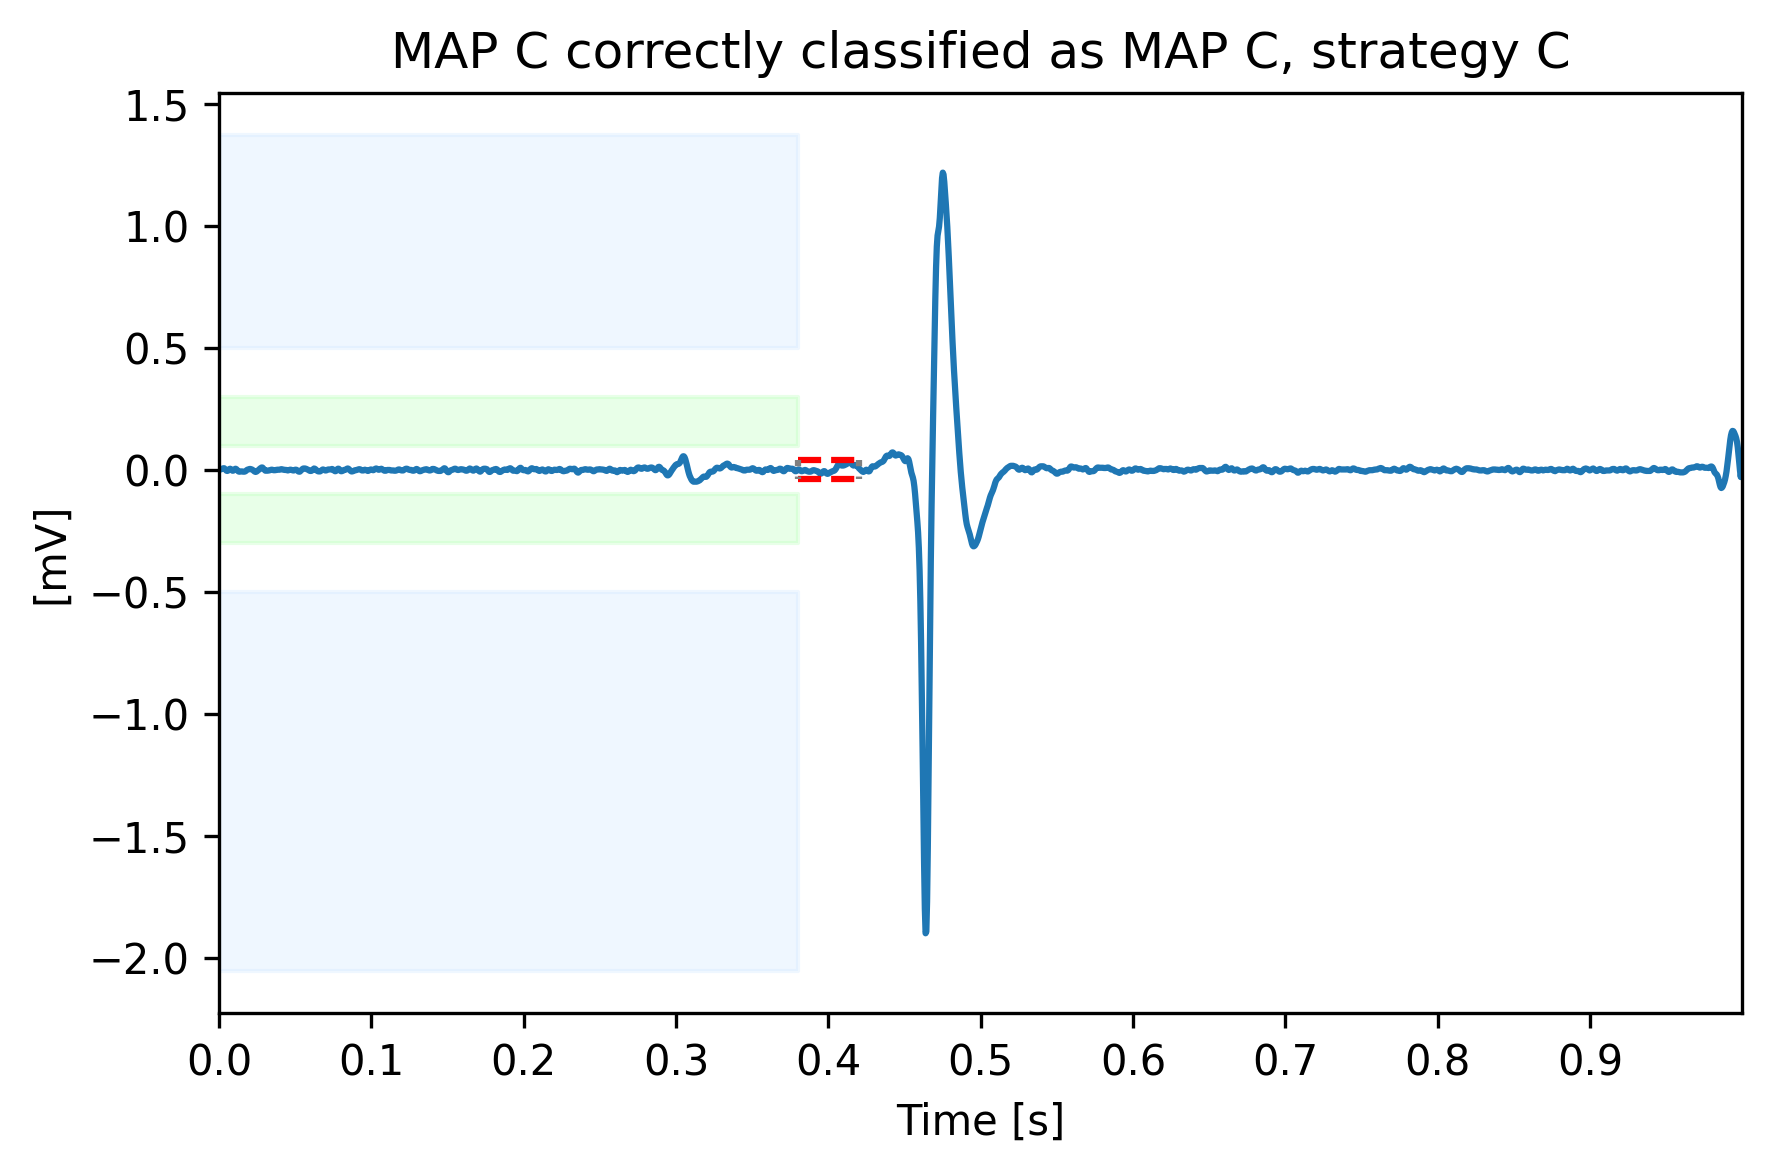
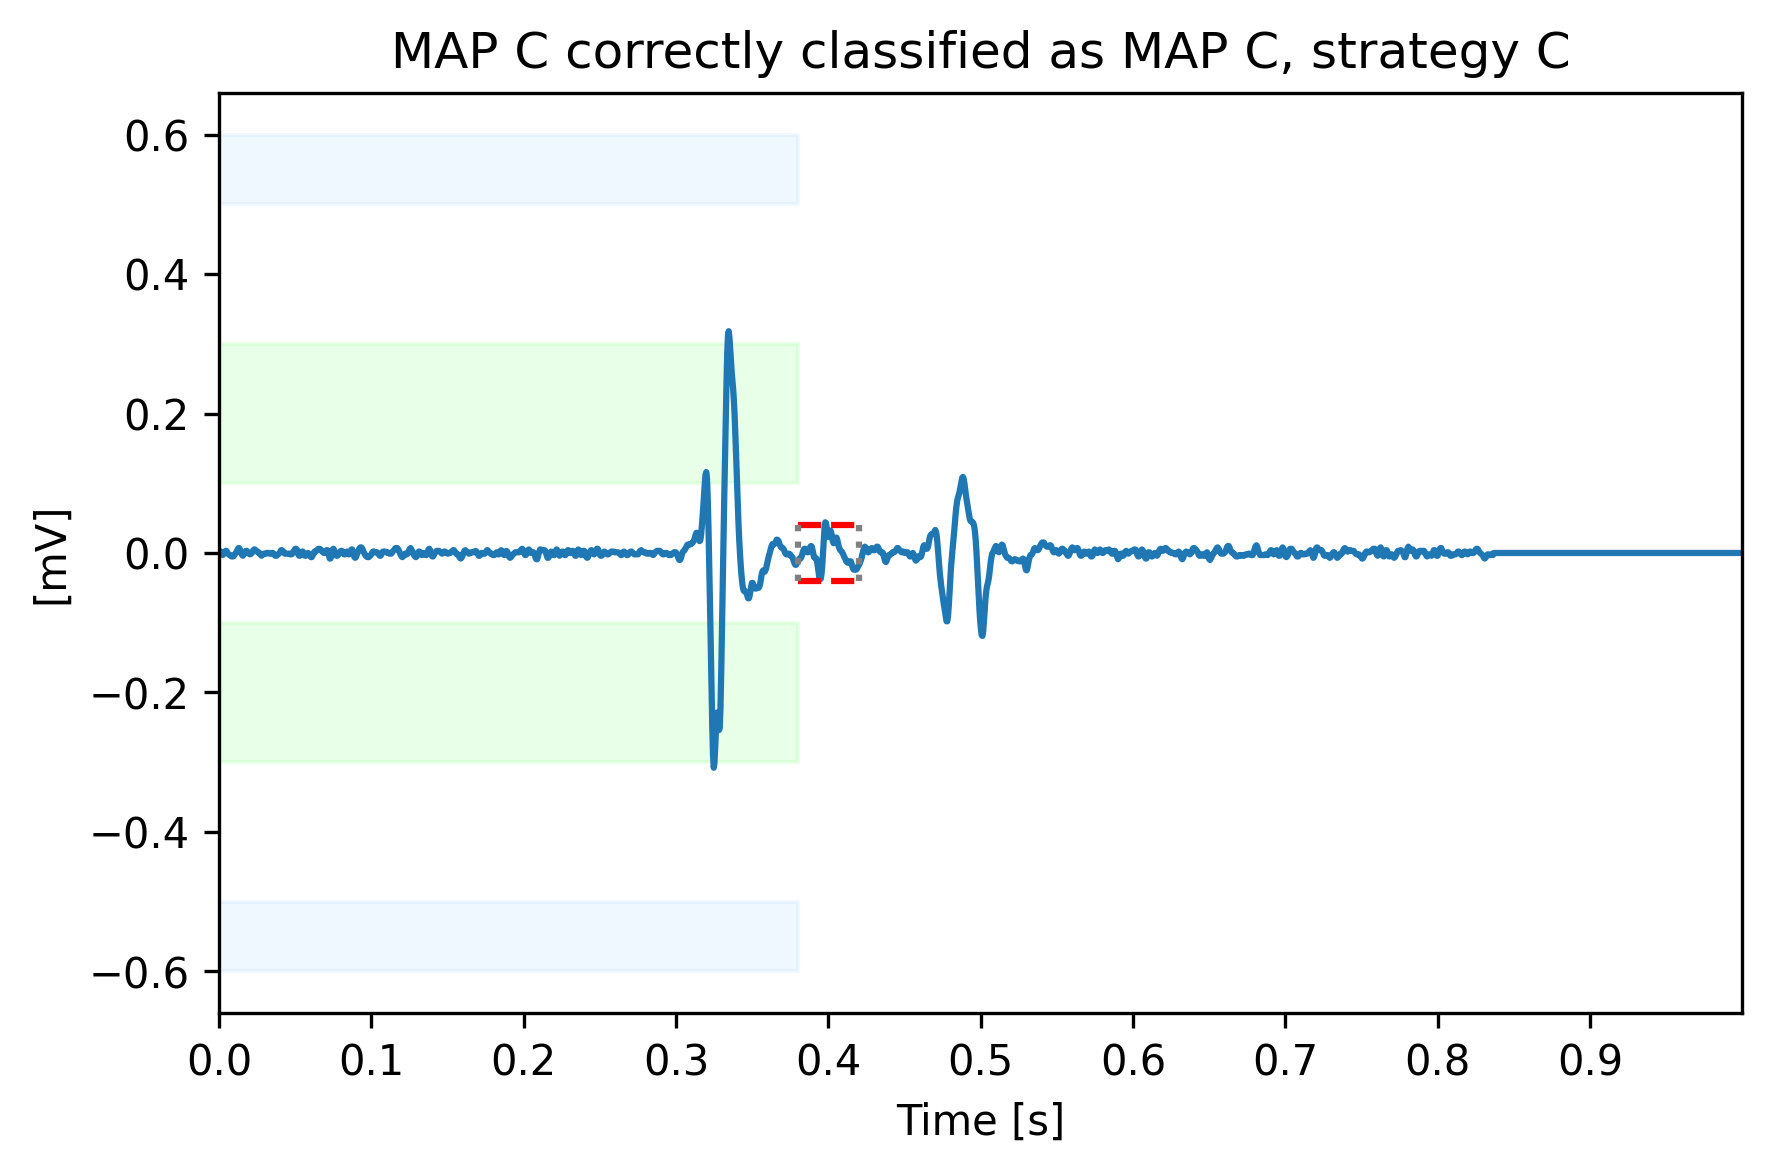
train test split figures done

diff --git a/main_classification.py b/main_classification.py
@@ -33,7 +33,8 @@ figure_path="D:/Desktop/ANDREA/Universita/Magistrale/Anno Accademico 2023-2024/T
 
 #%% Loading data
 dataset_path = "D:/Desktop/ANDREA/Universita/Magistrale/Anno Accademico 2023-2024/TESI/Tesi_magistrale/Data/Processed/data_aligned" 
-dataset_name = "dataset_1"  # E.g., dataset_1, 2, 3
+db_number=3
+dataset_name = "dataset_"+str(db_number)  # E.g., dataset_1, 2, 3
 whole_dataset,signals,y_true,labels_unique,Fs,plot_last_name,fig_final_folder,subtitle_plots = load_dataset(dataset_path, dataset_name)
 
 #%% Checking data
@@ -65,6 +66,24 @@ show_class_proportions(y_test,labels_unique)
 ################# BUILDING AN HEURISTIC CLASSIFIER PHASE #####################
 ##############################################################################
 other_fig_path=figure_path+"/Heuristic_classification_phase/"+fig_final_folder+"/other_figs"
+
+# %% Example signals positions
+import pandas as pd
+train_test_examples=pd.DataFrame({
+    "db 1 c" : [96,106,164],
+    "db 1 m": [0,13, 198],
+    "db 2 c" : [3,40,13],
+    "db 2 m": [1,130, 42],
+    "db 3 c" : [0,53,169],
+    "db 3 m": [1, 56, 145]
+    })
+
+LOPOCV_examples=pd.DataFrame({
+    "db 1 c" : [(0,0),(0,0),(0,0)],
+    "db 1 m": [(0,0),(0,0), (0,0)],
+    "db 2 c" : [(0,0),(0,0),(0,0)],
+    "db 3 m": [(0,0),(0,0), (0,0)]
+    })
 
 # %% Tuning of His Threshold value for strategy B
 # F1 score is used to tune the best percentile to be used as threshold
@@ -117,30 +136,32 @@ he_report=evaluate_confusion_matrix(pred_heuristic,y_test,labels_unique,cm_supti
 plot_dataframe_as_plain_image(he_report, figsize=(4, 4), scale=(1,1.3),title_plot=cm_title, use_rowLabels=True,path=cm_saving_path,saving_name="report_test_C")
 
 #%% Showing correct results
-# show_single_example(x_test, Fs,2, 'MAP A correctly classified as MAP A, strategy C') 
-# draw_his_boundaries(0.38,0.42,th_his,disp_atr_vent_boxes=True)
-# save_plot(plt.gcf(),other_fig_path,"ex_correct_class_1_C")
+col=f"db {db_number} c"
+show_single_example(x_test, Fs,train_test_examples[col][0], 'MAP A correctly classified as MAP A, strategy C') 
+draw_his_boundaries(0.38,0.42,th_his,disp_atr_vent_boxes=True)
+save_plot(plt.gcf(),other_fig_path,"ex_correct_class_1_C")
 
-# show_single_example(x_test, Fs,38, 'MAP B correctly classified as MAP B, strategy C') 
-# draw_his_boundaries(0.38,0.42,th_his,disp_atr_vent_boxes=True)
-# save_plot(plt.gcf(),other_fig_path,"ex_correct_class_2_C")
+show_single_example(x_test, Fs,train_test_examples[col][1], 'MAP B correctly classified as MAP B, strategy C') 
+draw_his_boundaries(0.38,0.42,th_his,disp_atr_vent_boxes=True)
+save_plot(plt.gcf(),other_fig_path,"ex_correct_class_2_C")
 
-# show_single_example(x_test, Fs, 3, 'MAP C correctly classified as MAP C, strategy C') 
-# draw_his_boundaries(0.38,0.42,th_his,disp_atr_vent_boxes=True)
-# save_plot(plt.gcf(),other_fig_path,"ex_correct_class_3_C")
+show_single_example(x_test, Fs, train_test_examples[col][2], 'MAP C correctly classified as MAP C, strategy C') 
+draw_his_boundaries(0.38,0.42,th_his,disp_atr_vent_boxes=True)
+save_plot(plt.gcf(),other_fig_path,"ex_correct_class_3_C")
 
-# # %% Showing some unclear results
-# show_single_example(x_test, Fs, 0, 'MAP A classified as MAP B, strategy C') 
-# draw_his_boundaries(0.38,0.42,th_his,disp_atr_vent_boxes=True)
-# save_plot(plt.gcf(),other_fig_path,"ex_misclass_1_C")
+# %% Showing some unclear results
+col=f"db {db_number} m"
+show_single_example(x_test, Fs, train_test_examples[col][0], 'MAP A classified as MAP B, strategy C') 
+draw_his_boundaries(0.38,0.42,th_his,disp_atr_vent_boxes=True)
+save_plot(plt.gcf(),other_fig_path,"ex_misclass_1_C")
 
-# show_single_example(x_test, Fs,13, 'MAP C classified as MAP B, strategy C') 
-# draw_his_boundaries(0.38,0.42,th_his,disp_atr_vent_boxes=True)
-# save_plot(plt.gcf(),other_fig_path,"ex_misclass_2_C")
+show_single_example(x_test, Fs,train_test_examples[col][1], 'MAP C classified as MAP B, strategy C') 
+draw_his_boundaries(0.38,0.42,th_his,disp_atr_vent_boxes=True)
+save_plot(plt.gcf(),other_fig_path,"ex_misclass_2_C")
 
-# show_single_example(x_test, Fs,222 , 'MAP C classified as MAP A, strategy C') 
-# draw_his_boundaries(0.38,0.42,th_his,disp_atr_vent_boxes=True)
-# save_plot(plt.gcf(),other_fig_path,"ex_misclass_3_C")
+show_single_example(x_test, Fs,train_test_examples[col][2] , 'MAP C classified as MAP A, strategy C') 
+draw_his_boundaries(0.38,0.42,th_his,disp_atr_vent_boxes=True)
+save_plot(plt.gcf(),other_fig_path,"ex_misclass_3_C")
 
 
 
@@ -168,28 +189,28 @@ if dataset_name!="dataset_3":
     plot_dataframe_as_plain_image(miss_class_summary, figsize=(8,5),scale=(1.7,1.7),title_plot=cm_title,path=other_fig_path,saving_name="Misclass_LOPOCV_C")
     
     # #%% Showing correct results
-    # show_single_example(signals, Fs,19, 'MAP A correctly classified as MAP A, LOPOCV C',use_iloc=False) 
-    # draw_his_boundaries(0.38,0.42,signal_peaks_and_class_train_LOPOCV[19][6],disp_atr_vent_boxes=True)
-    # save_plot(plt.gcf(),other_fig_path,"ex_LOPOCV_correct_class_1_C")
+    show_single_example(signals, Fs,19, 'MAP A correctly classified as MAP A, LOPOCV C',use_iloc=False) 
+    draw_his_boundaries(0.38,0.42,signal_peaks_and_class_train_LOPOCV[19][6],disp_atr_vent_boxes=True)
+    save_plot(plt.gcf(),other_fig_path,"ex_LOPOCV_correct_class_1_C")
     
-    # show_single_example(signals, Fs,809, 'MAP B correctly classified as MAP B, LOPOCV C',use_iloc=False) 
-    # draw_his_boundaries(0.38,0.42,signal_peaks_and_class_train_LOPOCV[193][6],disp_atr_vent_boxes=True)
-    # save_plot(plt.gcf(),other_fig_path,"ex_LOPOCV_correct_class_2_C")
+    show_single_example(signals, Fs,809, 'MAP B correctly classified as MAP B, LOPOCV C',use_iloc=False) 
+    draw_his_boundaries(0.38,0.42,signal_peaks_and_class_train_LOPOCV[193][6],disp_atr_vent_boxes=True)
+    save_plot(plt.gcf(),other_fig_path,"ex_LOPOCV_correct_class_2_C")
     
-    # show_single_example(signals, Fs, 313, 'MAP C correctly classified as MAP C, LOPOCV C',use_iloc=False) 
-    # draw_his_boundaries(0.38,0.42,signal_peaks_and_class_train_LOPOCV[936][6],disp_atr_vent_boxes=True)
-    # save_plot(plt.gcf(),other_fig_path,"ex_LOPOCV_correct_class_3_C")
+    show_single_example(signals, Fs, 313, 'MAP C correctly classified as MAP C, LOPOCV C',use_iloc=False) 
+    draw_his_boundaries(0.38,0.42,signal_peaks_and_class_train_LOPOCV[936][6],disp_atr_vent_boxes=True)
+    save_plot(plt.gcf(),other_fig_path,"ex_LOPOCV_correct_class_3_C")
     
-    # # %% Showing some unclear results
-    # show_single_example(signals, Fs,107, 'MAP A classified as MAP B, LOPOCV C',use_iloc=False) 
-    # draw_his_boundaries(0.38,0.42,signal_peaks_and_class_train_LOPOCV[123][6],disp_atr_vent_boxes=True)
-    # save_plot(plt.gcf(),other_fig_path,"ex_LOPOCV_misclass_1_C")
+    # %% Showing some unclear results
+    show_single_example(signals, Fs,107, 'MAP A classified as MAP B, LOPOCV C',use_iloc=False) 
+    draw_his_boundaries(0.38,0.42,signal_peaks_and_class_train_LOPOCV[123][6],disp_atr_vent_boxes=True)
+    save_plot(plt.gcf(),other_fig_path,"ex_LOPOCV_misclass_1_C")
     
-    # show_single_example(signals, Fs,937, 'MAP C classified as MAP B, LOPOCV C',use_iloc=False) 
-    # draw_his_boundaries(0.38,0.42,signal_peaks_and_class_train_LOPOCV[314][6],disp_atr_vent_boxes=True)
-    # save_plot(plt.gcf(),other_fig_path,"ex_LOPOCV_misclass_2_C")
+    show_single_example(signals, Fs,937, 'MAP C classified as MAP B, LOPOCV C',use_iloc=False) 
+    draw_his_boundaries(0.38,0.42,signal_peaks_and_class_train_LOPOCV[314][6],disp_atr_vent_boxes=True)
+    save_plot(plt.gcf(),other_fig_path,"ex_LOPOCV_misclass_2_C")
     
-    # show_single_example(signals, Fs, 928, 'MAP C classified as MAP A, LOPOCV C',use_iloc=False) 
-    # draw_his_boundaries(0.38,0.42,signal_peaks_and_class_train_LOPOCV[305][6],disp_atr_vent_boxes=True)
-    # save_plot(plt.gcf(),other_fig_path,"ex_LOPOCV_misclass_3_C")
+    show_single_example(signals, Fs, 928, 'MAP C classified as MAP A, LOPOCV C',use_iloc=False) 
+    draw_his_boundaries(0.38,0.42,signal_peaks_and_class_train_LOPOCV[305][6],disp_atr_vent_boxes=True)
+    save_plot(plt.gcf(),other_fig_path,"ex_LOPOCV_misclass_3_C")
 else:print("Unable to perform LOPOCV")
